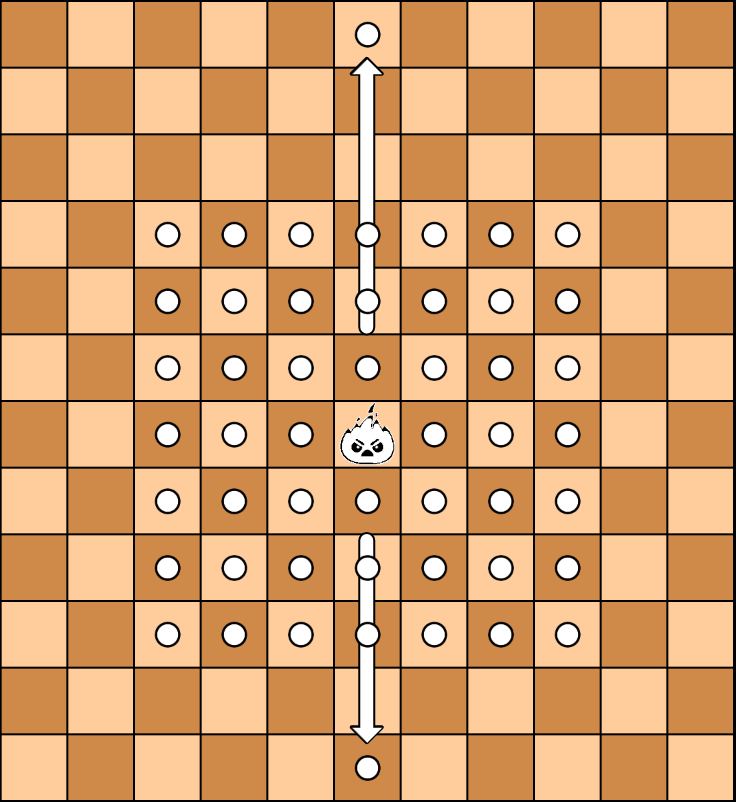
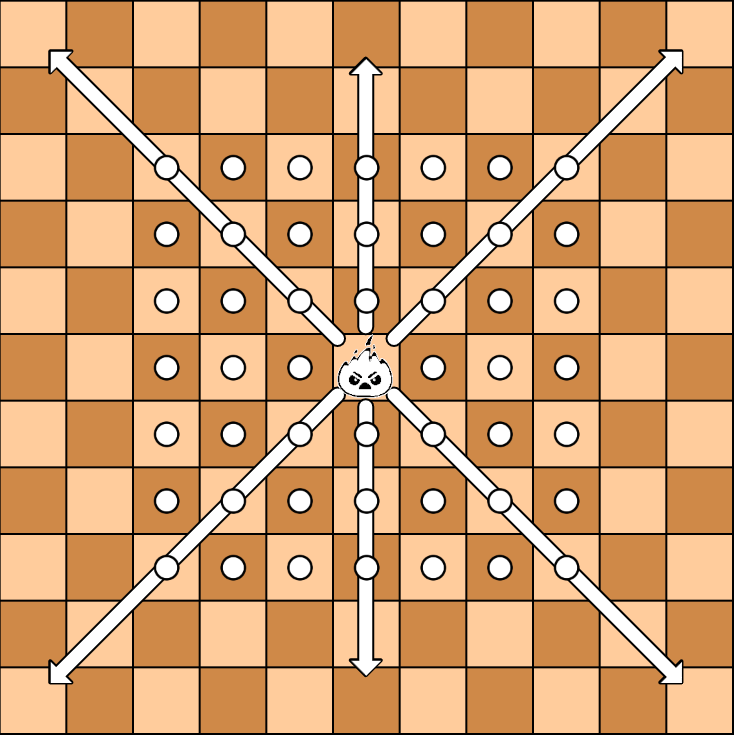
Tenjiku : add/fix move graphs for the rules

diff --git a/src/games/chessbase/res/rules/shogi/tenjiku-rules.html b/src/games/chessbase/res/rules/shogi/tenjiku-rules.html
@@ -60,16 +60,26 @@ or Stay in place without capturing anything.</p>
 <p><b>Iron General </b>: promotes to Vertical Soldier.</p>
 <p><img class="piece-graph" src="{GAME}/res/rules/shogi/graphs/ironGeneral.png"/></p>
 
-<p><b>free Eagle</b>: moves as a Queen with the diagonal move of a lion</p>
+<p><b>Free Eagle</b>: moves as a Queen with the diagonal move of a lion</p>
+<p>Jump directly to any square in the second square in any direction</p>
 <p><img class="piece-graph" src="{GAME}/res/rules/shogi/graphs/freeEagle.png"/></p>
+<p>The diagonal move allows to :</p>
+<ul> 
+    <li>Annihilate any opponent standing diagonally next to it, without moving (formally one step, and then a step back) ('Riffle capture'),</li>
+    <li>Annihilate any opponent standing diagonally next to it, moving on to an empty square diagonally next to that ('hit and run'),</li>
+    <li>Annihilate any opponent standing diagonally next to it, and normally capture an opponent standing diagonally next to that ('double capture'),</li>
+    <li>Stay in place without capturing anything if one of the diagonally neighboring squares is empty (effectively passing a turn)</li>
+</ul>
+<p><img class="piece-graph" src="{GAME}/res/rules/shogi/graphs/freeEagle-movediag.png"/></p>
 
 
-<p><b>Great general</b>: moves as a Queen, when capturing, he can jump over an arbitrarily large number of other pieces.</p>
+
+<p><b>Great general</b>: moves as a Queen, when capturing, he can jump over an arbitrarily large number of other pieces except over king/prince.</p>
 <p><img class="piece-graph" src="{GAME}/res/rules/shogi/graphs/greatGeneral.png"/></p>
 
-<p><b>Rook General</b>: moves as a Rook, when capturing, he can jump over an arbitrarily large number of other pieces except over higher-ranked jumpers.</p>
+<p><b>Rook General</b>: moves as a Rook, when capturing, he can jump over an arbitrarily large number of other pieces except over higher-ranked jumpers or king/prince.</p>
 <p><img class="piece-graph" src="{GAME}/res/rules/shogi/graphs/rookGeneral.png"/></p>
 
-<p><b>Bishop General</b>: moves as a Bishop, when capturing, he can jump over an arbitrarily large number of other pieces except over higher-ranked jumpers.</p>
+<p><b>Bishop General</b>: moves as a Bishop, when capturing, he can jump over an arbitrarily large number of other pieces except over higher-ranked jumpers or king/prince.</p>
 <p><img class="piece-graph" src="{GAME}/res/rules/shogi/graphs/bishopGeneral.png"/></p>
 
